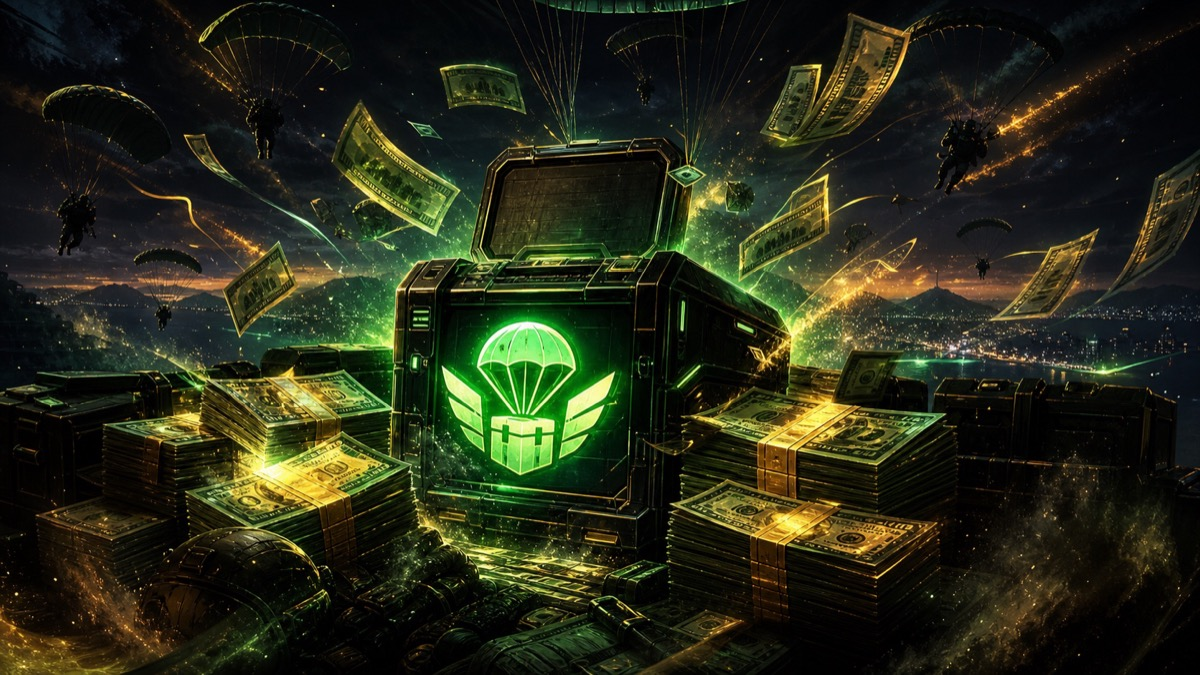
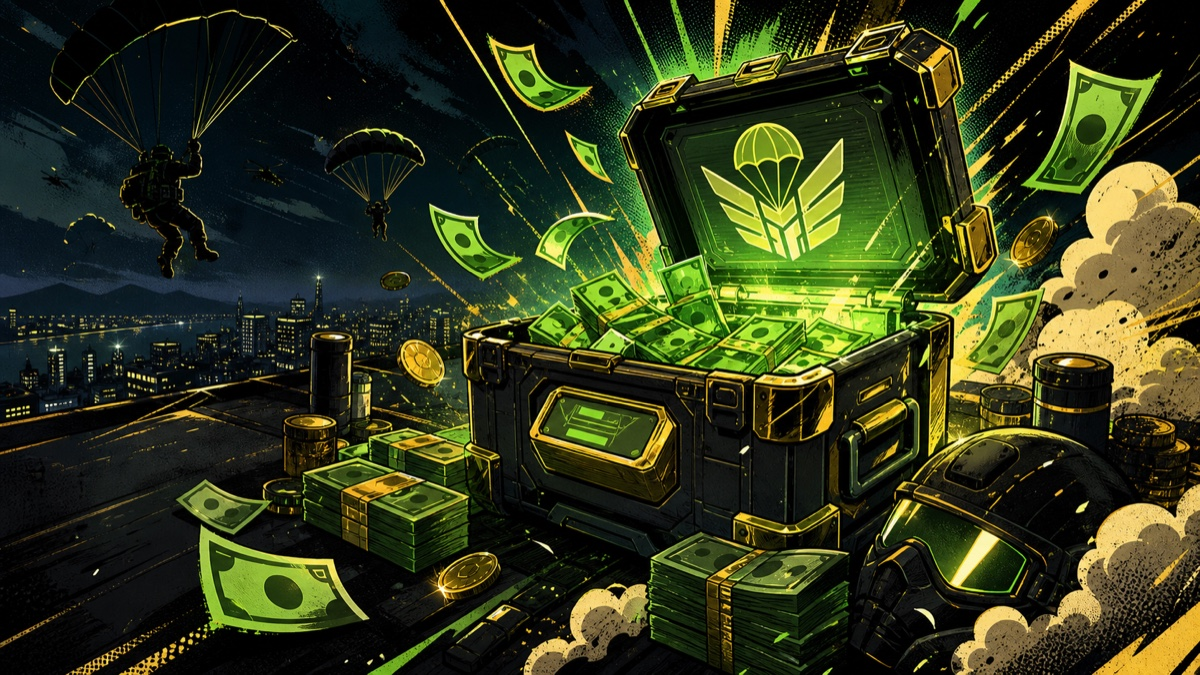
Add rarity progression to Recall cards

diff --git a/squad-recall.html b/squad-recall.html
@@ -818,7 +818,7 @@ Need one more. Run it back:`;
         const option = document.createElement("option");
         option.value = String(index);
         const lockState = isStyleUnlocked(style) ? "unlocked" : "locked";
-        option.textContent = `${style.requirement} · ${style.tierName} · ${lockState}`;
+        option.textContent = `${style.requirement} · ${getStyleRarity(style).label} · ${style.tierName} · ${lockState}`;
         styleSelect.append(option);
       });
 
@@ -978,6 +978,62 @@ Need one more. Run it back:`;
         return { value: `+${match.kills}`, label: "kills" };
       }
 
+      function getStyleRarity(style) {
+        if (style.metric === "redeploys") {
+          if (style.minValue >= 3) {
+            return { label: "Legendary Foil", reveal: 1, color: 1, shine: 1, marks: 10 };
+          }
+
+          if (style.minValue >= 2) {
+            return { label: "Rare Gloss", reveal: 0.74, color: 0.82, shine: 0.52, marks: 6 };
+          }
+
+          return { label: "Common Print", reveal: 0.42, color: 0.36, shine: 0.1, marks: 3 };
+        }
+
+        if (style.metric === "revives") {
+          if (style.minValue >= 3) {
+            return { label: "Epic Foil", reveal: 0.88, color: 0.95, shine: 0.74, marks: 8 };
+          }
+
+          return { label: "Uncommon Print", reveal: 0.54, color: 0.52, shine: 0.22, marks: 4 };
+        }
+
+        if (style.minValue >= 20) {
+          return { label: "Mythic Foil", reveal: 1, color: 1, shine: 1, marks: 12 };
+        }
+
+        if (style.minValue >= 18) {
+          return { label: "Legendary", reveal: 0.92, color: 0.95, shine: 0.86, marks: 10 };
+        }
+
+        if (style.minValue >= 15) {
+          return { label: "Epic Foil", reveal: 0.82, color: 0.86, shine: 0.68, marks: 8 };
+        }
+
+        if (style.minValue >= 12) {
+          return { label: "Epic", reveal: 0.72, color: 0.78, shine: 0.52, marks: 7 };
+        }
+
+        if (style.minValue >= 10) {
+          return { label: "Rare Gloss", reveal: 0.62, color: 0.64, shine: 0.36, marks: 6 };
+        }
+
+        if (style.minValue >= 8) {
+          return { label: "Rare", reveal: 0.54, color: 0.54, shine: 0.26, marks: 5 };
+        }
+
+        if (style.minValue >= 5) {
+          return { label: "Uncommon", reveal: 0.44, color: 0.42, shine: 0.16, marks: 4 };
+        }
+
+        if (style.minValue >= 4) {
+          return { label: "Uncommon Proof", reveal: 0.36, color: 0.34, shine: 0.08, marks: 3 };
+        }
+
+        return { label: "Common Print", reveal: 0.26, color: 0.22, shine: 0, marks: 2 };
+      }
+
       function drawCoverImage(ctx, image, x, y, width, height) {
         const sourceRatio = image.naturalWidth / image.naturalHeight;
         const targetRatio = width / height;
@@ -999,6 +1055,7 @@ Need one more. Run it back:`;
 
       function drawGeneratedArt(ctx, style, x, y, width, height) {
         const plate = artPlates[style.family] || artPlates.kill;
+        const rarity = getStyleRarity(style);
 
         ctx.save();
         roundedRect(ctx, x, y, width, height, 30);
@@ -1012,14 +1069,24 @@ Need one more. Run it back:`;
         ctx.fillRect(x, y, width, height);
 
         if (plate.image && plate.image.complete && plate.image.naturalWidth > 0) {
+          ctx.save();
+          ctx.globalAlpha = 0.42 + rarity.reveal * 0.58;
+          ctx.filter = [
+            `grayscale(${Math.max(0, 1 - rarity.color)})`,
+            `saturate(${0.42 + rarity.color * 1.08})`,
+            `contrast(${0.84 + rarity.reveal * 0.24})`,
+            `brightness(${0.74 + rarity.reveal * 0.28})`,
+            `blur(${Math.max(0, (1 - rarity.reveal) * 1.45)}px)`,
+          ].join(" ");
           drawCoverImage(ctx, plate.image, x, y, width, height);
+          ctx.restore();
         }
 
         const edgeShade = ctx.createLinearGradient(x, y, x + width, y);
-        edgeShade.addColorStop(0, "rgba(0, 0, 0, 0.4)");
+        edgeShade.addColorStop(0, "rgba(0, 0, 0, 0.5)");
         edgeShade.addColorStop(0.16, "rgba(0, 0, 0, 0.06)");
         edgeShade.addColorStop(0.72, "rgba(0, 0, 0, 0)");
-        edgeShade.addColorStop(1, "rgba(0, 0, 0, 0.34)");
+        edgeShade.addColorStop(1, `rgba(0, 0, 0, ${0.56 - rarity.reveal * 0.18})`);
         ctx.fillStyle = edgeShade;
         ctx.fillRect(x, y, width, height);
 
@@ -1029,29 +1096,69 @@ Need one more. Run it back:`;
         ctx.fillStyle = bottomShade;
         ctx.fillRect(x, y, width, height);
 
+        if (rarity.reveal < 0.58) {
+          ctx.save();
+          ctx.globalAlpha = 0.42 - rarity.reveal * 0.32;
+          ctx.fillStyle = "#000";
+          ctx.fillRect(x, y, width, height);
+          ctx.globalAlpha = 0.24;
+          ctx.strokeStyle = "#fffaf0";
+          ctx.lineWidth = 2;
+          for (let stripe = -height; stripe < width; stripe += 34) {
+            ctx.beginPath();
+            ctx.moveTo(x + stripe, y + height);
+            ctx.lineTo(x + stripe + height, y);
+            ctx.stroke();
+          }
+          ctx.restore();
+        }
+
         ctx.globalCompositeOperation = "screen";
-        ctx.fillStyle = alpha(style.accent, 0.18);
+        ctx.fillStyle = alpha(style.accent, 0.08 + rarity.reveal * 0.13);
         ctx.fillRect(x, y, width, height);
         ctx.globalCompositeOperation = "source-over";
+
+        if (rarity.shine > 0.25) {
+          ctx.save();
+          ctx.globalCompositeOperation = "screen";
+          const foil = ctx.createLinearGradient(x + width * 0.22, y, x + width * 0.92, y + height);
+          foil.addColorStop(0, "rgba(255, 255, 255, 0)");
+          foil.addColorStop(0.46, alpha(style.accent2, 0.02 + rarity.shine * 0.18));
+          foil.addColorStop(0.52, "rgba(255, 255, 255, 0.22)");
+          foil.addColorStop(0.58, alpha(style.accent, 0.02 + rarity.shine * 0.14));
+          foil.addColorStop(1, "rgba(255, 255, 255, 0)");
+          ctx.fillStyle = foil;
+          ctx.fillRect(x, y, width, height);
+          ctx.globalAlpha = rarity.shine * 0.38;
+          ctx.strokeStyle = "#fffaf0";
+          ctx.lineWidth = 3;
+          for (let line = 0; line < rarity.marks; line += 1) {
+            const offset = line * 58;
+            ctx.beginPath();
+            ctx.moveTo(x + width - 180 - offset, y + 20);
+            ctx.lineTo(x + width + 50 - offset, y + height - 60);
+            ctx.stroke();
+          }
+          ctx.restore();
+        }
 
         ctx.fillStyle = "rgba(0, 0, 0, 0.54)";
         ctx.fillRect(x, y, width, 96);
         ctx.fillStyle = "#fffaf0";
         ctx.font = "900 30px 'Space Mono', monospace";
-        ctx.fillText(plate.label.toUpperCase(), x + 36, y + 50);
+        ctx.fillText(rarity.label.toUpperCase(), x + 36, y + 50);
         ctx.fillStyle = alpha(style.accent2, 0.9);
         ctx.font = "700 18px 'Space Mono', monospace";
-        ctx.fillText(`${style.serial} // ${style.requirement.toUpperCase()}`, x + 36, y + 79);
+        ctx.fillText(`${plate.label.toUpperCase()} // ${style.serial} // ${style.requirement.toUpperCase()}`, x + 36, y + 79);
 
-        ctx.fillStyle = alpha(style.accent2, 0.9);
-        for (let index = 0; index < Math.min(style.minValue, 20); index += 1) {
-          const col = index % 10;
-          const row = Math.floor(index / 10);
-          fillRoundedRect(ctx, x + 36 + col * 18, y + height - 58 + row * 22, 10, 20, 2, alpha(style.accent2, 0.72));
+        for (let index = 0; index < 12; index += 1) {
+          const filled = index < rarity.marks;
+          const fill = filled ? alpha(style.accent2, 0.88) : "rgba(255, 255, 255, 0.14)";
+          fillRoundedRect(ctx, x + 36 + index * 18, y + height - 50, 10, 20, 2, fill);
         }
 
         ctx.restore();
-        strokeRoundedRect(ctx, x, y, width, height, 30, alpha(style.accent2, 0.54), 2);
+        strokeRoundedRect(ctx, x, y, width, height, 30, alpha(style.accent2, 0.2 + rarity.reveal * 0.44), 2 + rarity.shine * 2);
       }
 
       function drawKatana(ctx, cx, cy, angle, length, accent, highlight) {